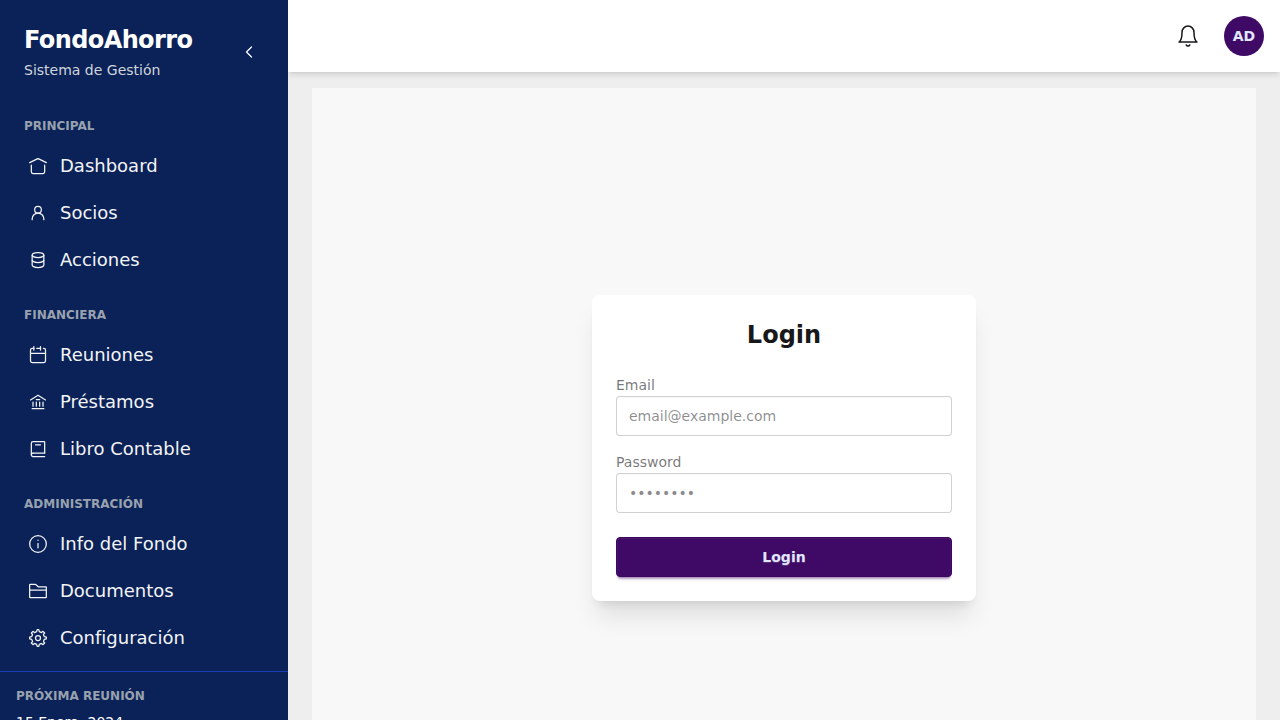
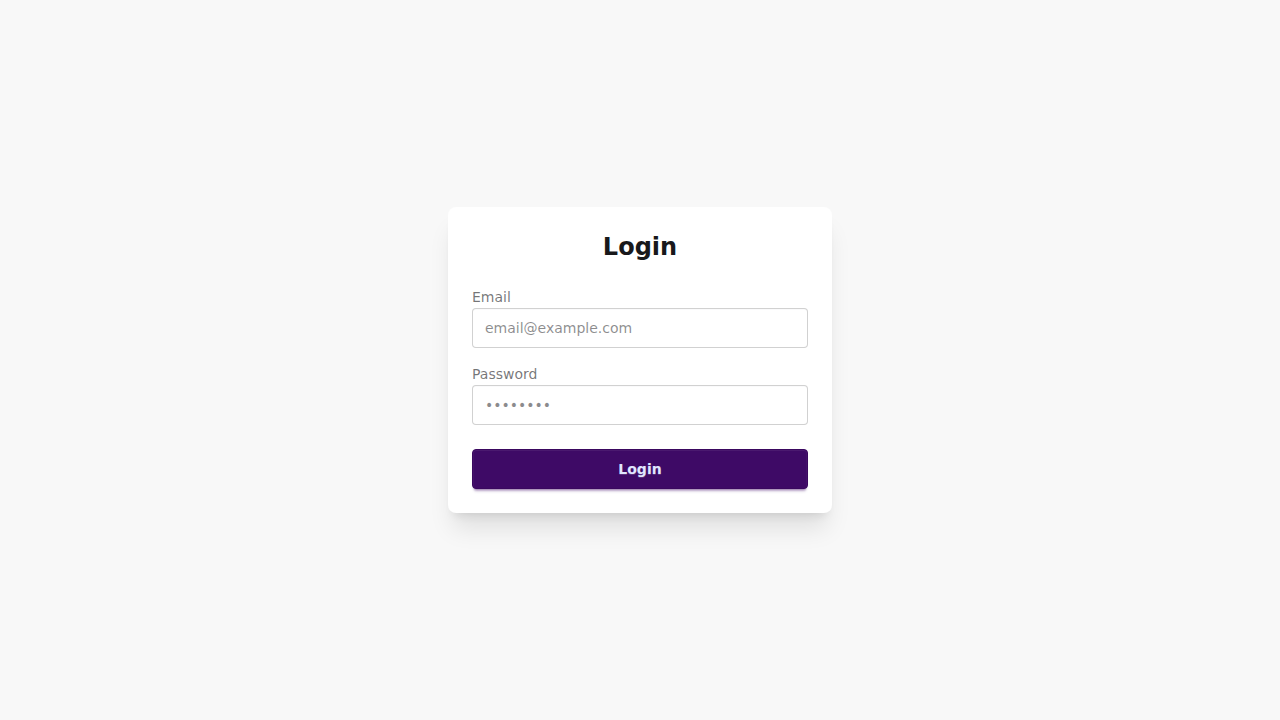
Update layout to show login page full screen

diff --git a/frontend-v2/src/App.vue b/frontend-v2/src/App.vue
@@ -1,5 +1,8 @@
 <template>
-  <div class="flex h-screen bg-base-300">
+  <div v-if="route.name === 'login'" class="h-screen w-screen bg-base-200">
+    <router-view />
+  </div>
+  <div v-else class="flex h-screen bg-base-300">
     <AppSidebar />
     <div
       class="flex flex-1 flex-col ml-0 transition-all duration-300"
@@ -18,11 +21,13 @@
 
 <script setup lang="ts">
 import { onMounted } from 'vue'
+import { useRoute } from 'vue-router'
 import AppSidebar from '@/shared/layout/AppSidebar.vue'
 import AppHeader from '@/shared/layout/AppHeader.vue'
 import { useSidebar } from '@/shared/composables/useSidebar'
 import { useMeetingsStore } from '@/features/meetings/stores/meetings'
 
+const route = useRoute()
 const { isCollapsed } = useSidebar()
 const meetingsStore = useMeetingsStore()
 
